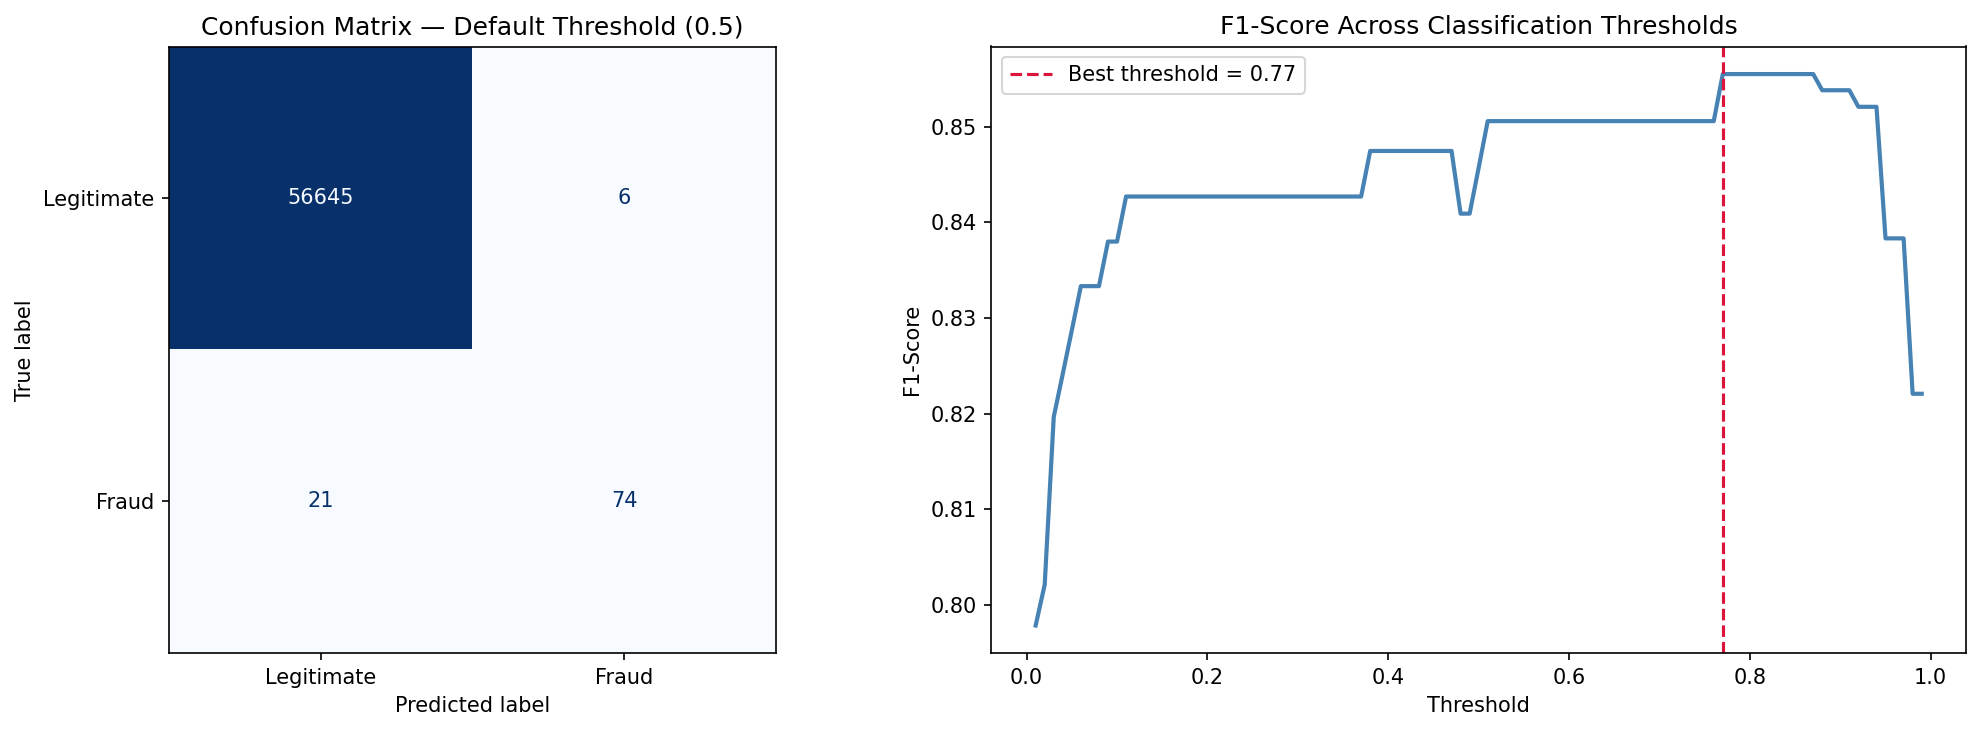
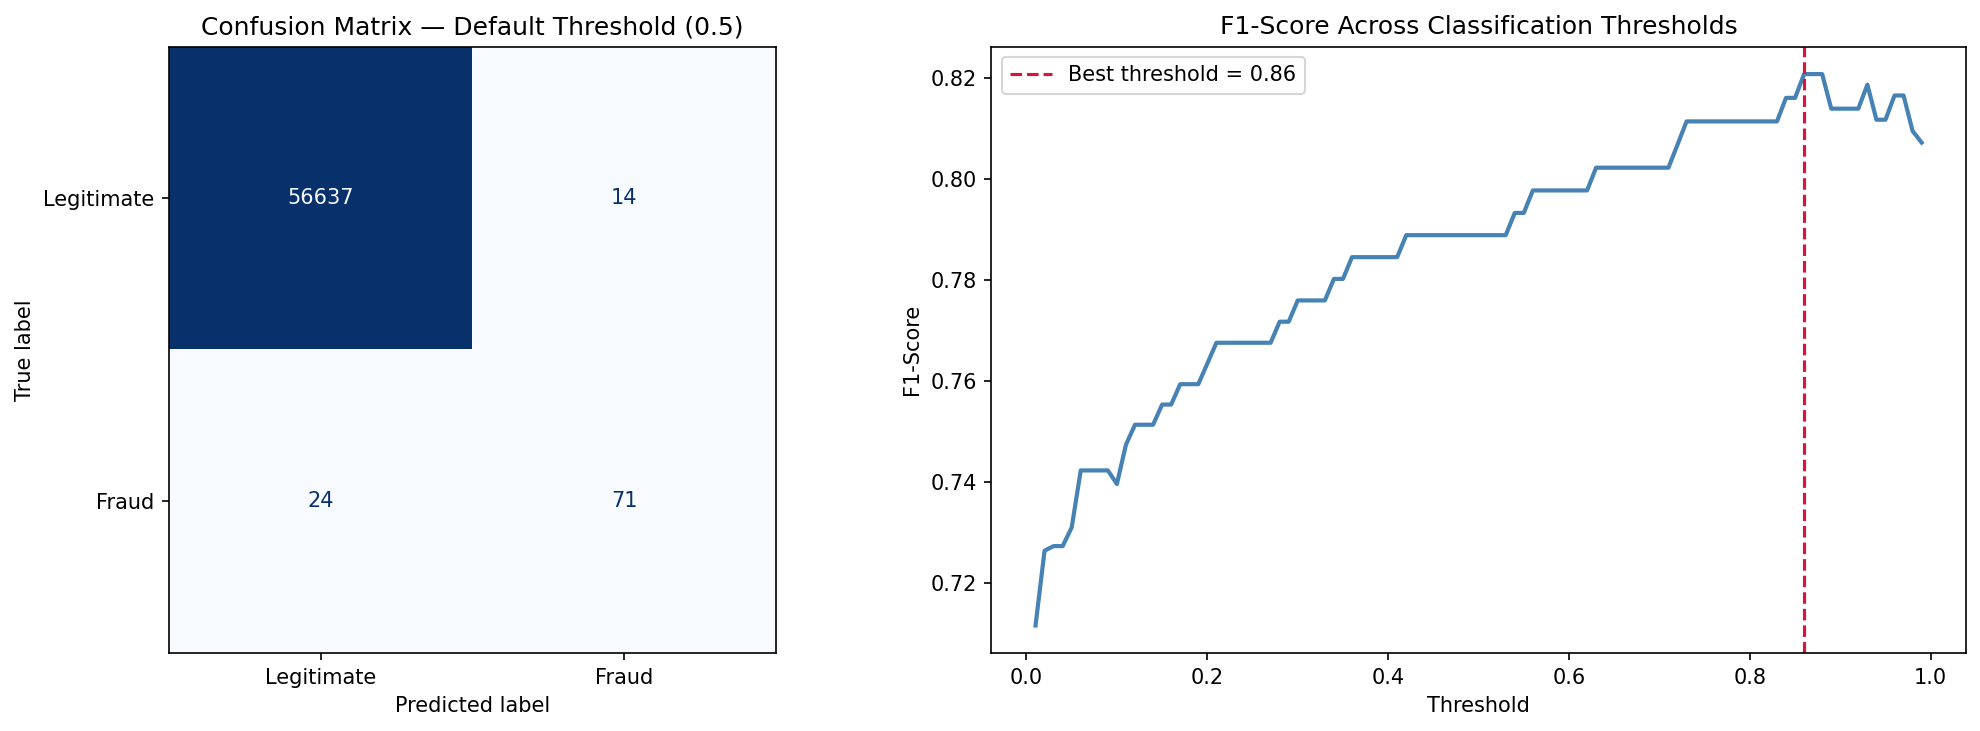
feat: reduced features using random forest importance and re-ensemble models

diff --git a/README.md b/README.md
@@ -32,7 +32,7 @@ Credit card fraud detection is a class imbalance problem at industrial scale —
 ---
 
 ## Architecture
-
+```
 TRAINING PIPELINE (offline, runs once)
 ──────────────────────────────────────────────────────────────────
 creditcard.csv
@@ -92,7 +92,7 @@ src/evaluate.py         format_shap_explanation()
 ▼
 api/schema.py           TransactionResponse
 decision + probability + confidence_tier + explanation
-
+```
 ## Dataset
 
 | Property | Value |
@@ -130,7 +130,7 @@ The V1–V28 features are PCA-transformed components from the original transacti
 
 
 ## Project Structure
-
+```
 FraudDetection/
 │
 ├── api/
@@ -174,7 +174,7 @@ FraudDetection/
 ├── Dockerfile
 ├── README.md
 └── requirements.txt
-
+```
 ---
 
 ## Pipeline Stages
